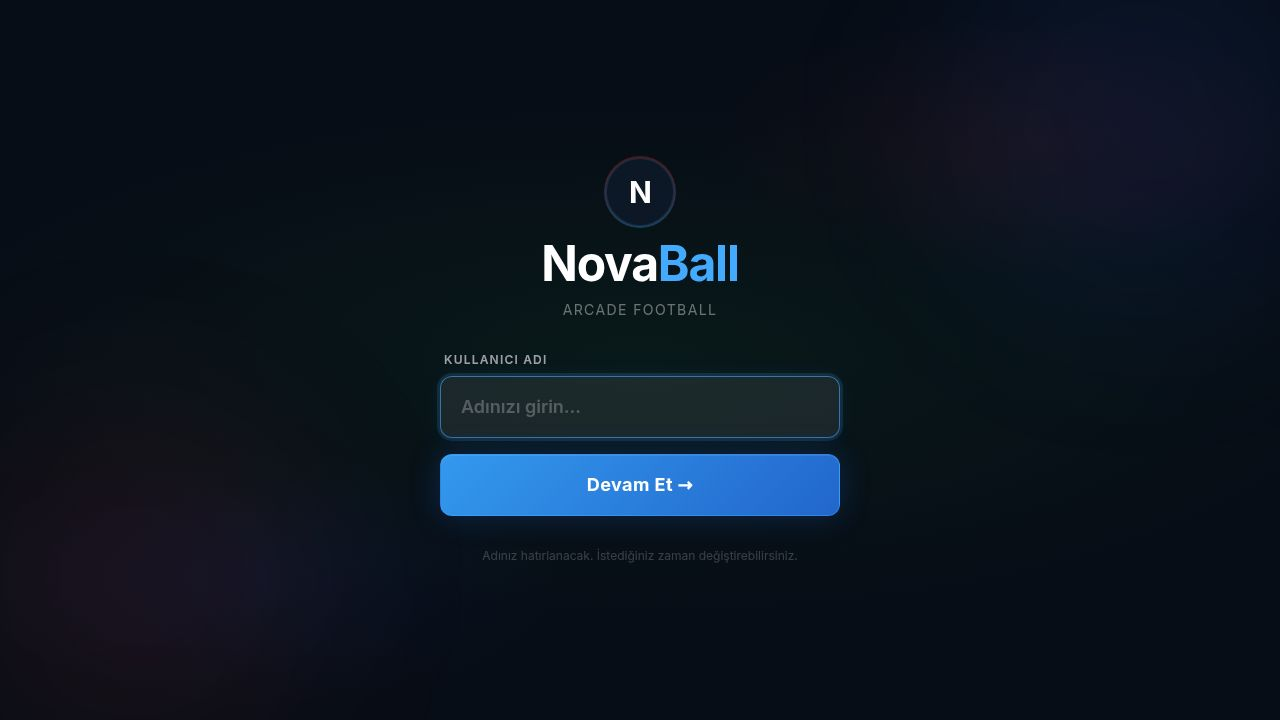
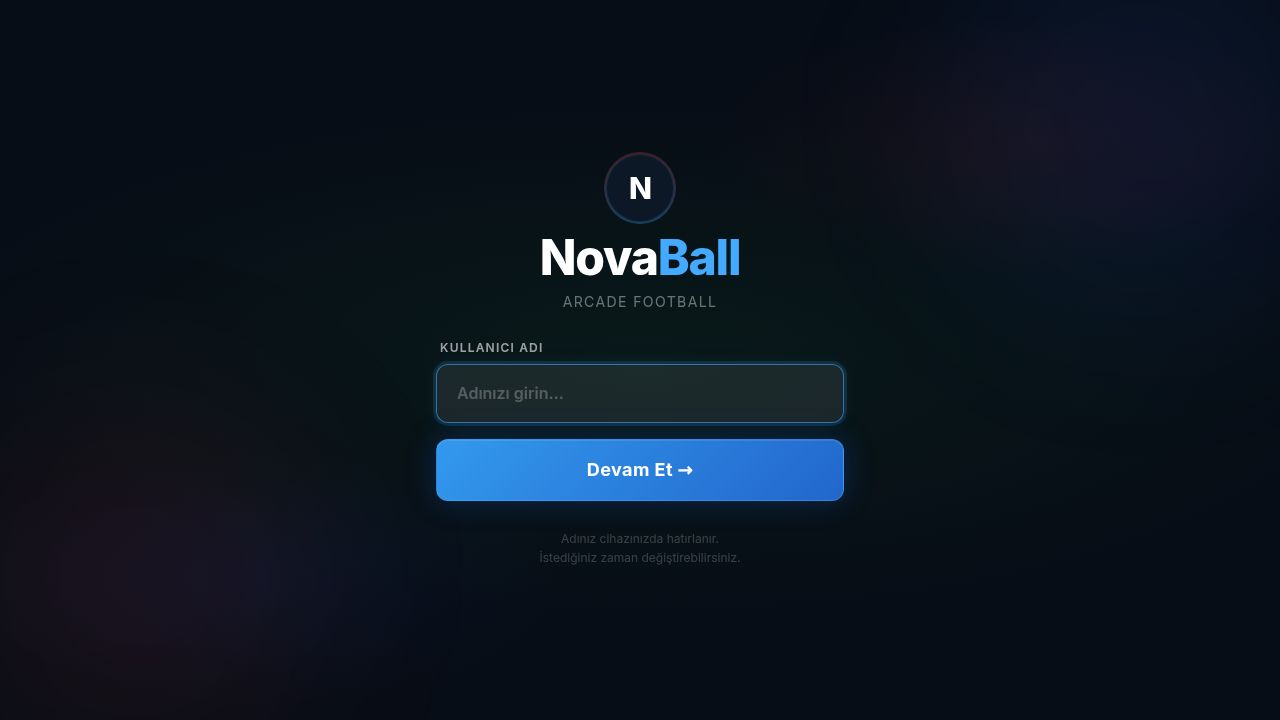
fix: lucide-react bağımlılığı eklendi — Vercel build hatası düzeltildi

Changed region(s): [[0.3125, 0.4583, 0.6875, 0.7944], [0.4062, 0.2139, 0.5938, 0.4583]]

diff --git a/src/index.css b/src/index.css
@@ -20,7 +20,7 @@
   --color-destructive-foreground: #ffffff;
   --color-input: rgba(255,255,255,0.08);
   --color-ring: rgba(68,170,255,0.5);
-  --font-sans: 'Inter', system-ui, -apple-system, sans-serif;
+  --font-sans: 'Inter', sans-serif;
   --font-mono: 'JetBrains Mono', 'Fira Code', monospace;
   --radius: 0.75rem;
 }

diff --git a/replit.md b/replit.md
@@ -1,153 +1,45 @@
-# NovaBall
+# [Project name]
 
-**NovaBall**, Haxball ve Mamoball'dan ilham alan modern bir 2D tepeden görünümlü arcade futbol oyunudur. React 19.2, TypeScript ve HTML5 Canvas üzerine inşa edilmiş, tamamen tarayıcı tabanlı ve sunucu gerektirmeyen bir oyundur. Hem masaüstü (klavye) hem de mobil yatay ekran (dokunmatik joystick) desteklenmektedir.
+_Replace the heading above with the project's name, and this line with one sentence describing what this app does for users._
 
-## Kurulum ve Çalıştırma
+## Run & Operate
 
-```bash
-pnpm --filter @workspace/novaball run dev       # oyunu başlat
-pnpm --filter @workspace/novaball run typecheck  # tip kontrolü
-pnpm run typecheck                               # tüm paketleri kontrol et
-pnpm run build                                   # tip kontrolü + derleme
-```
+- `pnpm --filter @workspace/api-server run dev` — run the API server (port 5000)
+- `pnpm run typecheck` — full typecheck across all packages
+- `pnpm run build` — typecheck + build all packages
+- `pnpm --filter @workspace/api-spec run codegen` — regenerate API hooks and Zod schemas from the OpenAPI spec
+- `pnpm --filter @workspace/db run push` — push DB schema changes (dev only)
+- Required env: `DATABASE_URL` — Postgres connection string
 
-## Teknoloji Yığını
+## Stack
 
-| Katman | Teknoloji |
-|--------|-----------|
-| Monorepo | pnpm workspaces, Node.js 24 |
-| Dil | TypeScript 5.9 (strict) |
-| Frontend | React 19.2 + Vite + Tailwind CSS v4 |
-| Oyun döngüsü | HTML5 Canvas + requestAnimationFrame |
-| Fizik | `useGamePhysics.ts` içinde özel impuls tabanlı motor |
-| Veri saklama | Yalnızca localStorage (sunucu yok, veritabanı yok) |
-| Mobil | Dokunmatik sanal joystick + aksiyon butonları |
+- pnpm workspaces, Node.js 24, TypeScript 5.9
+- API: Express 5
+- DB: PostgreSQL + Drizzle ORM
+- Validation: Zod (`zod/v4`), `drizzle-zod`
+- API codegen: Orval (from OpenAPI spec)
+- Build: esbuild (CJS bundle)
 
-## Proje Yapısı
+## Where things live
 
-```
-artifacts/novaball/src/
-├── types/
-│   └── game.ts               # Tüm sabitler, arayüzler (Player, Ball, Score, MobileInput…)
-├── utils/
-│   └── rankSystem.ts         # Rank kademeleri, RP hesaplama, localStorage yardımcıları
-├── hooks/
-│   └── useGamePhysics.ts     # Fizik motoru, AI, oyun döngüsü, canvas çizimi (HEPSİ BURADA)
-├── components/
-│   ├── UsernameScreen.tsx    # İlk açılış ekranı (kullanıcı adı girişi)
-│   ├── MainMenu.tsx          # Ana menü (rank rozeti, oyun modları, nasıl oynanır)
-│   ├── GameBoard.tsx         # Canvas wrapper + HUD + MobileControls entegrasyonu
-│   ├── MobileControls.tsx    # Dokunmatik joystick + şut/depar butonları
-│   ├── MatchResult.tsx       # Rekabet maçı sonuç ekranı (RP, rank ilerleme)
-│   └── RankPage.tsx          # Tüm rank kademelerini gösteren bilgi sayfası
-├── App.tsx                   # Ekran durum makinesi (screen router)
-└── index.css                 # Tailwind v4 + tüm özel stiller (oyun HUD, mobil kontroller…)
-```
+_Populate as you build — short repo map plus pointers to the source-of-truth file for DB schema, API contracts, theme files, etc._
 
-## Ekran Akışı
+## Architecture decisions
 
-```
-UsernameScreen  →  MainMenu  →  GameBoard (Serbest Oyun)
-                     │       ↘  GameBoard (Rekabet Modu) → MatchResult → MainMenu
-                     └──────→  RankPage
-```
+_Populate as you build — non-obvious choices a reader couldn't infer from the code (3-5 bullets)._
 
-`App.tsx` içindeki `AppScreen` tipi:
-`"username" | "menu" | "rankpage" | "playing" | "ranked" | "result"`
+## Product
 
-## Mimari Kararlar
+_Describe the high-level user-facing capabilities of this app once they exist._
 
-### Durum Yönetimi
-- **Tüm değişken oyun durumu `useRef` içinde tutar** — her frame'de React re-render tetiklemez.
-- Yalnızca `score`, `gameTime`, `goalFlash` için `useState` kullanılır (bunlar HUD'a yansıtılır).
-- `useGamePhysics` hook'u hem fiziği hem canvas çizimini yönetir (tek sorumluluk noktası).
+## User preferences
 
-### Fizik Motoru (`useGamePhysics.ts`)
-- İmpuls tabanlı daire çarpışma çözümleme.
-- Top hakimiyeti (possession): oyuncu topa değdiğinde otomatik alır, çalma için depar gerekir.
-- Stamina/depar sistemi: `STAMINA_MAX=100`, hızlı tükenme + yavaş toparlanma.
-- Kale direkleri küçük daireler olarak modellenmiştir (gerçekçi sekme için).
-- **NaN koruma**: `safe()` yardımcısı + `isFinite` guards tüm canvas çizim çağrılarında mevcut.
-- Mobil joystick girişi: `MobileInput` ref'i her frame'de klavye durumuna eklenir (birleşik kontrol).
+_Populate as you build — explicit user instructions worth remembering across sessions._
 
-### Mobil Destek
-- `MobileInput` arayüzü: `{ dx, dy, shoot, sprint }` — fizik motoru her iki girişi de işler.
-- `MobileControls.tsx`: sanal joystick (sol) + şut/depar butonları (sağ).
-- `isTouchDevice` sabit (window.ontouchstart veya maxTouchPoints) ile donanım algılaması.
-- Portait modda `portrait-overlay` devreye girer ve ekranı döndürme talimatı gösterir.
-- **Canvas responsive**: `aspect-ratio: 16/9` + `width: 100%` ile tüm ekran boyutlarına uyum sağlar.
+## Gotchas
 
-### Rank Sistemi (`rankSystem.ts`)
-- 7 kademe × 3 alt rank (Usta hariç tek): toplam 19 rank seviyesi.
-- Kademeler: Demir → Bronz → Gümüş → Altın → Platin → Elmas → Usta.
-- RP localStorage'da `novaball_rp` anahtarıyla saklanır.
-- Yenilgide RP kaybı **yoktur** (yeni başlayanlar için bariyersiz deneyim).
-- RP formülü: 1 gol→10, 2→14, 3→18, 4→22, 5+→25 (sadece kazanınca verilir).
+_Populate as you build — sharp edges, "always run X before Y" rules._
 
-### Canvas Çizimi
-- Tüm çizimler `requestAnimationFrame` geri çağrısında yapılır.
-- RAF döngüsü dışında **asla** canvas'a yazılmaz.
-- `useGamePhysics` `active` prop'u ile başlatılıp durdurulur (bellek sızıntısı önleme).
+## Pointers
 
-## Yeni Özellik Eklerken
-
-**Her zaman şunları yap:**
-1. Yeni sabit veya tür eklenecekse → `types/game.ts`
-2. Rank/RP ile ilgili mantık → `utils/rankSystem.ts`
-3. Yeni ekran → `components/` altında yeni dosya + `App.tsx` state machine'e ekle
-4. Fizik değişikliği → `useGamePhysics.ts` (fizik ve çizimi birlikte tut)
-5. Her yeni ekran/bileşen için hem mobil yatay hem de masaüstü uyumunu test et
-6. `pnpm --filter @workspace/novaball run typecheck` ile tip hatası kontrolü yap
-
-**Asla şunları yapma:**
-- Veritabanı veya backend ekleme — tamamen istemci taraflı oyun
-- `useGamePhysics` dışında canvas'a yazma
-- Oyun durumu için `useState` kullanma (sadece HUD verileri için)
-- `useGamePhysics` hook'unu `active=false` olmadan bırakma (RAF sızıntısı)
-- `console.log` sunucu koduna ekleme (bu projede sunucu yok, ama genel kural)
-
-## Oyun Sabitleri (önemli değerler)
-
-| Sabit | Değer | Açıklama |
-|-------|-------|---------|
-| `CANVAS_WIDTH/HEIGHT` | 1200×675 | Oyun alanı çözünürlüğü (16:9) |
-| `RANKED_DURATION_MS` | 90 000 ms | Rekabet maçı süresi |
-| `PLAYER_MAX_SPEED` | 4.8 | Normal maksimum hız (düşürüldü) |
-| `PLAYER_ACCEL` | 0.58 | İvme (düşürüldü, daha kontrollü) |
-| `SPRINT_SPEED_MULT` | 1.75 | Depar hız çarpanı |
-| `STAMINA_MAX` | 100 | Maksimum stamina |
-| `MIN_KICK_POWER` | 5 | Minimum şut gücü (kısa dokunuş) |
-| `MAX_KICK_POWER` | 15 | Maksimum şut gücü (tam şarj) |
-| `CHARGE_RATE` | 0.022/frame | Güç barı dolma hızı (~45 frame = 0.75s) |
-| `FRAME_MS` | 16.667ms | 60 FPS kilidi (120Hz'de extra frame atlanır) |
-| `FOUNDING_DATE` | "11 Haziran 2026" | Oyun kuruluş tarihi (branding) |
-
-## Güç Barı Sistemi
-
-Şut artık "anında ateş" yerine **şarj tabanlı** çalışır:
-
-1. Oyuncu `SPACE/X` (PC) veya ⚽ butonu (mobil) basılı tutar
-2. Her frame `kickCharge += CHARGE_RATE * dtF` artar (0 → 1 arası ~0.75 saniye)
-3. Tuş bırakılınca: `power = MIN_KICK_POWER + (MAX_KICK_POWER - MIN_KICK_POWER) * kickCharge`
-4. Canvas üzerinde oyuncunun etrafında renkli ark gösterilir (yeşil→sarı→kırmızı)
-5. Mobilden: `conic-gradient` halkası ⚽ butonun çevresinde dolar
-
-**`GR` state'e eklenen alanlar:** `kickCharge: number`, `prevShootHeld: boolean`
-
-## 60 FPS Kilidi
-
-RAF döngüsünün başında:
-```typescript
-if (s.lastTs > 0 && ts - s.lastTs < FRAME_MS - 2) {
-  rafRef.current = requestAnimationFrame(tick); return;
-}
-```
-120Hz ekranlarda her diğer frame atlanır → her cihazda sabit 60 adım/saniye.
-
-## Kullanıcı Tercihleri
-
-- **Dil**: Türkçe UI, Türkçe değişken yorumları kabul edilir
-- **Marka**: NovaBall, neon-spor karanlık tema (`#070d16` arka plan, neon yeşil saha)
-- **Mobil**: Yatay ekran zorunlu; portait modda döndürme talimatı gösterilir
-- **Tasarım**: Premium, minimal, cam efektli (`backdrop-filter: blur`) UI öğeleri
-- **Yeni ekranlar**: Her ekran hem masaüstü (max-w-lg merkez) hem mobil yatay uyumlu olmalı
+- See the `pnpm-workspace` skill for workspace structure, TypeScript setup, and package details